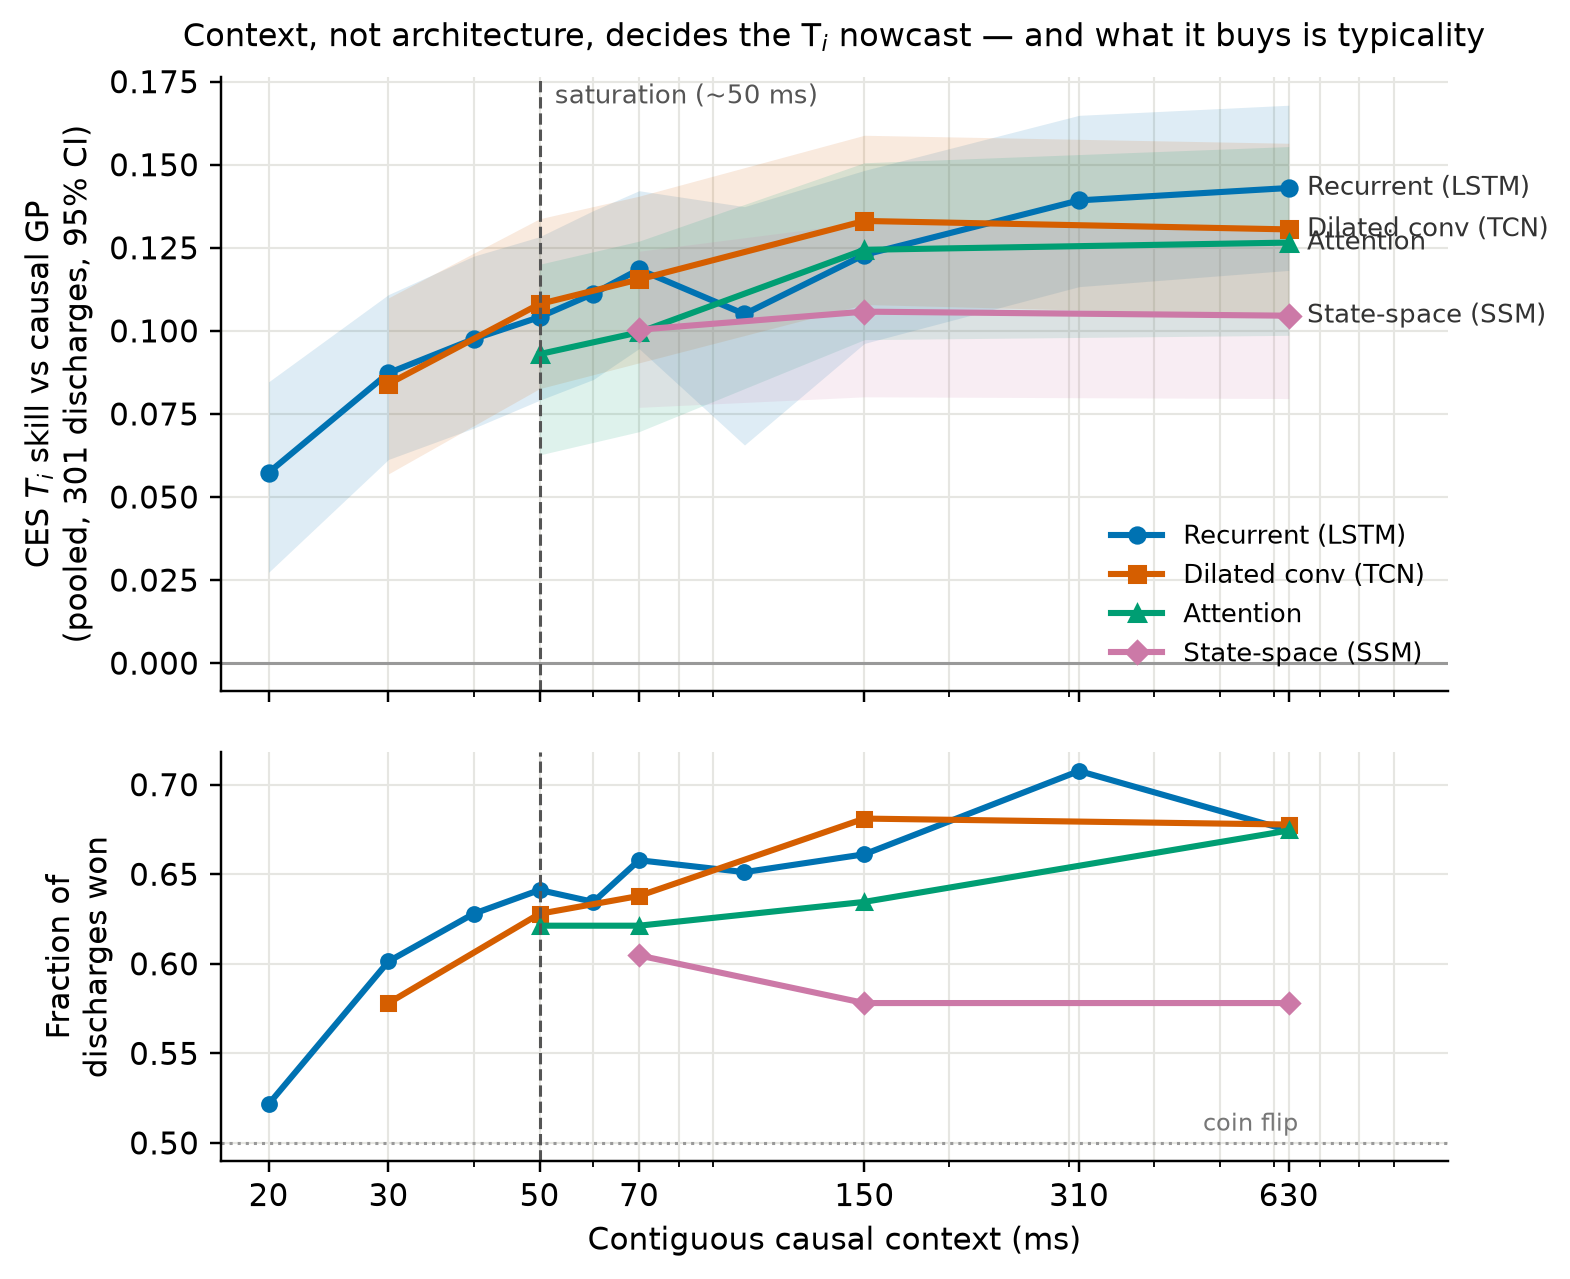
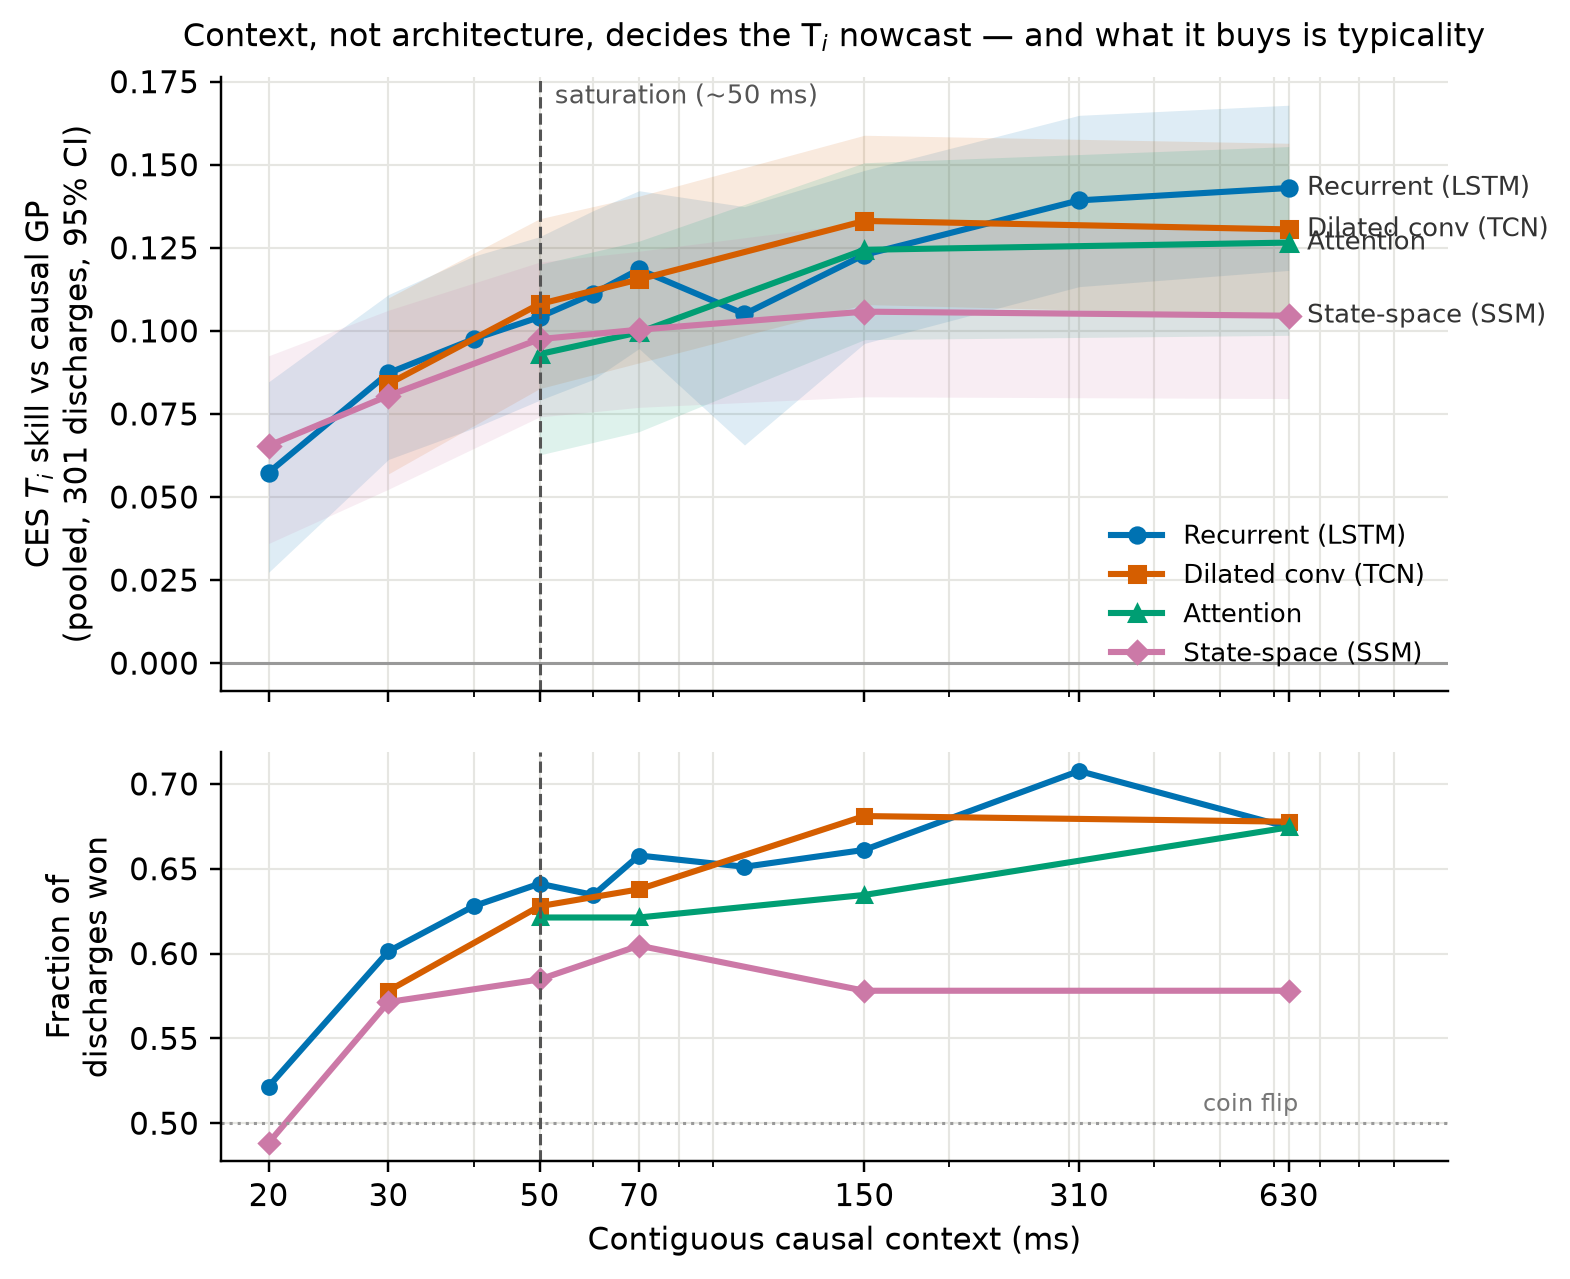
Buy the SSM ladder's missing low rungs; 'does not convert context' flips to a corrected verdict
The not-resolved SSM trend was three rungs at 70-630 ms, all past where
every other family turns. Twelve runs (ssmr2/3/5, frozen protocol) give
the trend test leverage where the action is and it RISES: +0.0235
[+0.0102, +0.0372] per decade over six rungs. Corrected sentence: the
diagonal SSM converts context up to ~70 ms and stops at a lower ceiling
(+0.105 vs +0.143 recurrent at 630 ms, win rate 0.58 vs 0.66); adoption
verdict unchanged, V_rot decline now 4/4 families. THESIS 8am addendum
+ in-place correction marker; pooled json and figure regenerated with
the other families' rows reproducing unchanged.

Claude-Session: https://claude.ai/code/session_01QreFPZ8PQQsXgw285XoMEc

diff --git a/ces_prediction/experiments/b9_reach/pooled_ladder.py b/ces_prediction/experiments/b9_reach/pooled_ladder.py
@@ -47,7 +47,10 @@ FAMILIES = {
     "lstm": ("v2r{r}", [2, 3, 4, 5, 6, 7, 10, 15, 31, 63]),
     "tcn": ("tcn{r}", [3, 5, 7, 15, 63]),
     "xfmr": ("xfmr{r}", [5, 7, 15, 63]),
-    "ssm": ("ssmr{r}", [7, 15, 63]),
+    # 2/3/5 added 2026-08-21 (승상님): the "does not convert context" verdict was a 3-rung
+    # trend over 70-630 ms; the 20-50 ms region where the other families turn was never
+    # bought. These rungs give the trend test leverage where the action is.
+    "ssm": ("ssmr{r}", [2, 3, 5, 7, 15, 63]),
 }
 
 

diff --git a/THESIS_RESULTS.md b/THESIS_RESULTS.md
@@ -3342,6 +3342,9 @@ effect is not shot-general: win rate ≤ 0.60 or −top10 ≤ 0). Every `V_rot` 
    70 ms to 630 ms — it does not convert extra context into skill, which is a sharper statement of
    its paired result (it loses to the same-reach LSTM by −0.022 at 7 and −0.044 at 63) and an
    independent reason not to adopt it here.
+   **[Corrected 2026-08-21 — addendum below. With rungs 2/3/5 bought, the six-rung trend RISES
+   (+0.0235 [+0.0102, +0.0372]): the 70–630 ms flatness was the saturated tail of a curve whose
+   rising region had simply never been measured.]**
 2. **`V_rot` gets *worse* with context for three of four families**, significantly. More context is
    not neutral for the target that rides carried values — it is harmful. This is consistent with
    §8ab's routing story (the `V_rot` branch reads a slowly-varying carried value; a longer window
@@ -3370,6 +3373,45 @@ a single trained model on a held-out campaign (§8's temporal split). And the mi
 (72 discharges in two test sets) is absorbed by the clustering but not removed: a fully clean design
 is **discharge-level k-fold**, where every discharge is tested exactly once, which would cost the
 same number of runs and remove the caveat entirely.
+
+### Addendum (2026-08-21) — the SSM's missing low rungs bought; "does not convert context" is corrected
+
+**Motivation (승상님: "지금 ssm 사다리 왜 안돌려").** The not-resolved SSM trend above was
+estimated on three rungs, 70–630 ms — every one of them PAST the region where the other three
+families turn. A trend test with no leverage where the action is cannot resolve anything, and this
+project's own rule (§8j) says the negative must name its measurement. The measurement was rungs
+2/3/5: 12 runs, `run_b9_reach.py --variant ssm`, the same frozen protocol as every other rung.
+
+**Pooled (301 discharges), the full six-rung SSM ladder, `CES_TI` vs the causal GP:**
+
+| context | skill [95% CI] | win rate | −top10 |
+|---:|---:|---:|---:|
+| 20 ms | +0.065 [+0.036, +0.092] | 0.49 | +0.033 |
+| 30 ms | +0.081 [+0.052, +0.106] | 0.57 | +0.052 |
+| 50 ms | +0.098 [+0.074, +0.121] | 0.58 | +0.071 |
+| 70 ms | +0.100 [+0.077, +0.124] | 0.60 | +0.074 |
+| 150 ms | +0.106 [+0.080, +0.133] | 0.58 | +0.077 |
+| 630 ms | +0.105 [+0.080, +0.131] | 0.58 | +0.076 |
+
+1. **The trend verdict flips: rises.** +0.004 [−0.007, +0.014] over three rungs becomes
+   **+0.0235 [+0.0102, +0.0372] per decade over six**. The sentence "it does not convert extra
+   context into skill" is withdrawn. The correct sentence: **the diagonal SSM converts context up
+   to ~70 ms and then stops, at a lower ceiling** — +0.105 against the recurrent +0.143 at 630 ms,
+   win rate capped at 0.58–0.60 against 0.66. Its deficiency is long-context exploitation, not
+   context conversion.
+2. **At 20 ms it is the best pooled point of any family** (+0.065 vs the recurrent +0.057) —
+   a same-rung pooled comparison, not a paired test, so it is reported and not promoted. If the
+   minimal-context regime ever matters (a 20 ms deployment), the named measurement is a paired
+   `ssmr2` vs `v2r2` comparison, which the existing artifacts already support.
+3. **The adoption verdict does not change.** The SSM still loses paired to the same-reach LSTM
+   at 7 (−0.022) and 63 (−0.044) and tops out lower. What changed is the *reason* on record —
+   and that the §3.4-style saturation read for this family lands at ~70 ms like the others.
+4. **`CES_VT` declines with context in this family too** (−0.0134 [−0.0319, −0.0037]), closing
+   statement 2 above from "three of four families" to **four of four**.
+
+Artifacts: `data/.b9_ssmr{2,3,5}_s*`, `data/.b9_reach_ladder_ssm.json`,
+`data/.b9_pooled_ladder.json` regenerated (the other three families' rows reproduce unchanged —
+their bootstrap draws precede the SSM's in seed order); the context-family figure regenerated.
 
 ---
 
